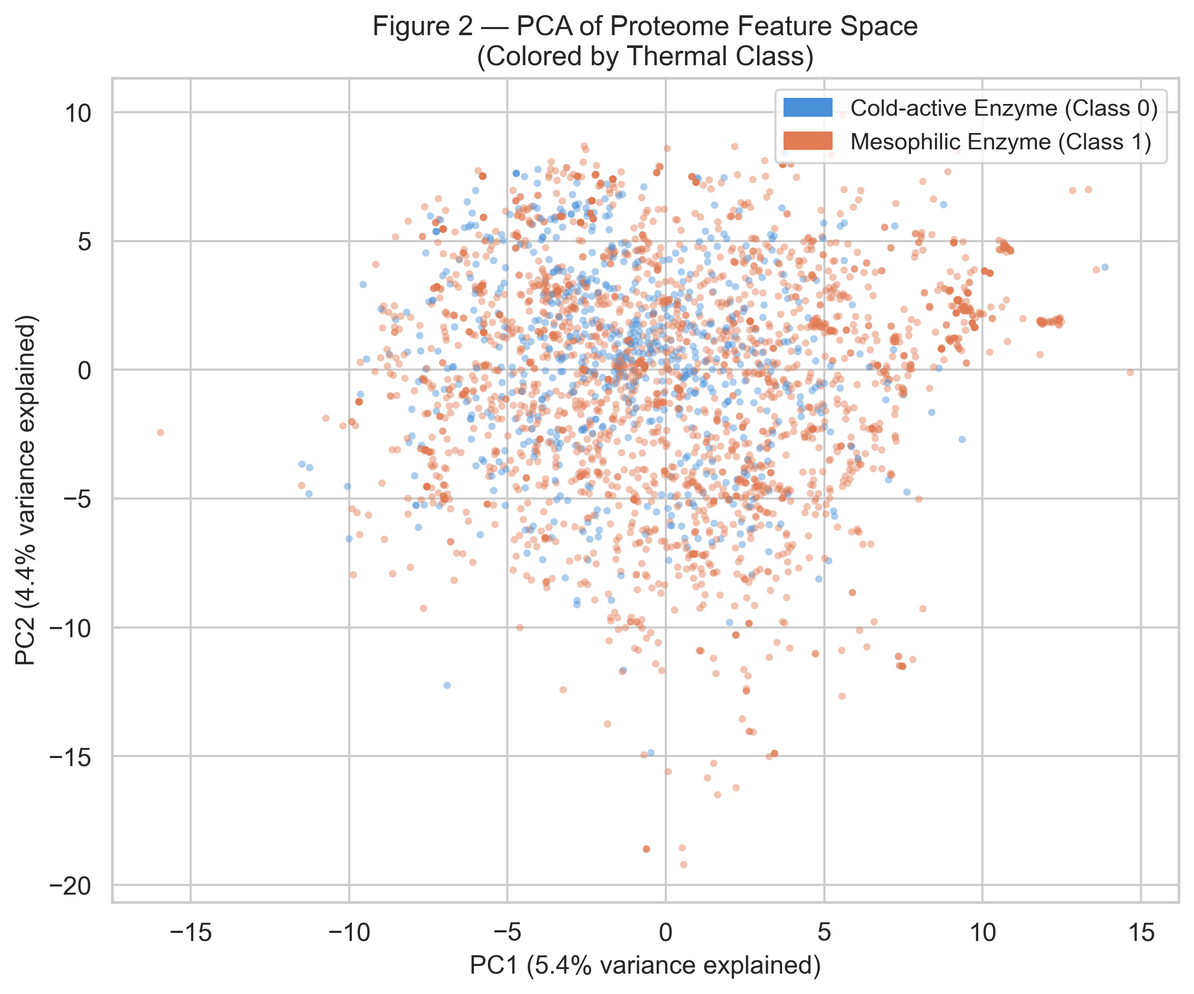
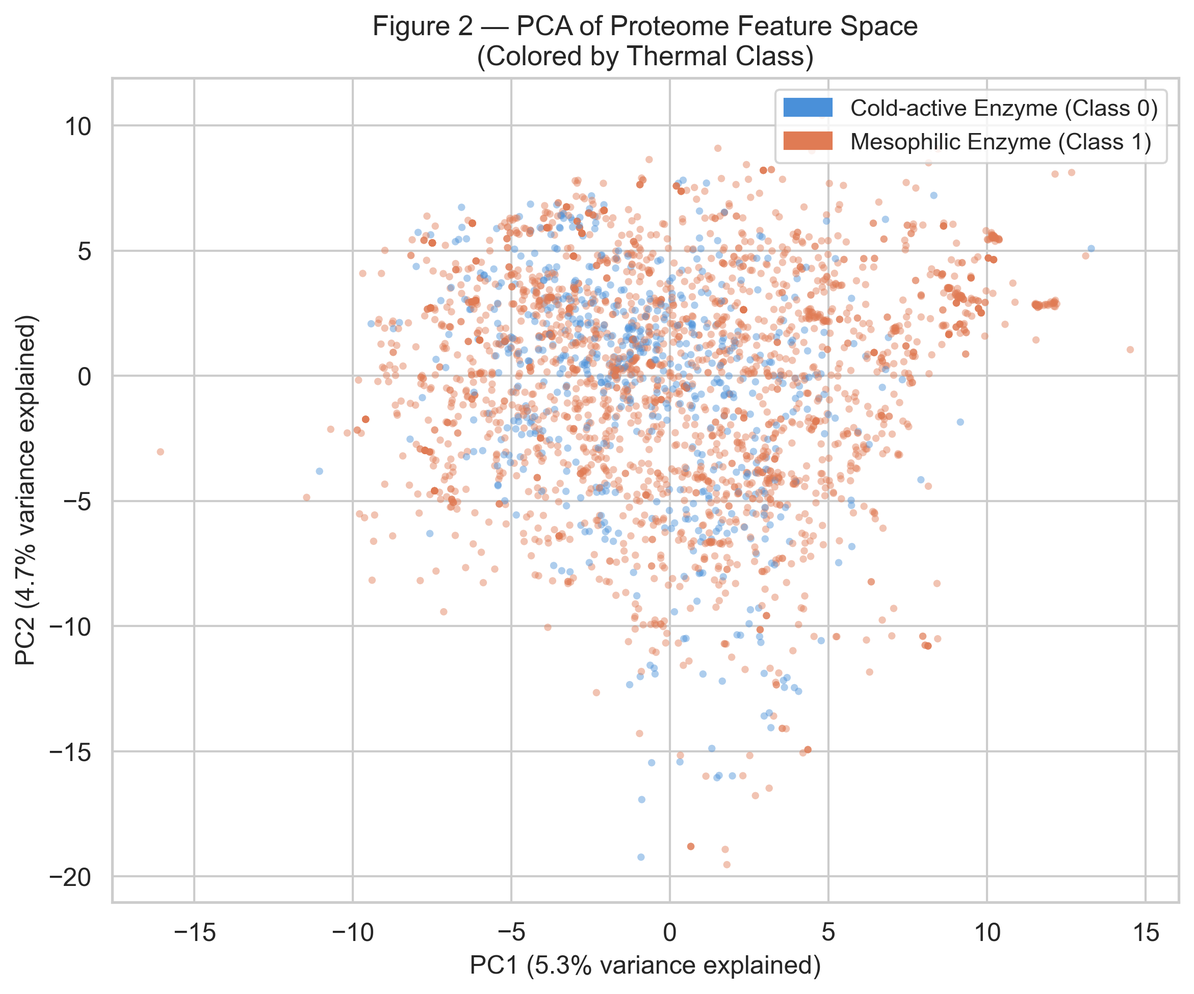
feat(dataset): enforce strict Morita psychrophily (48 psychro / 51 meso taxa) and improve Cryomyces retrospective enrichment
- Enforce strict physiological threshold (T_opt <= 15C) across all 48 psychrophiles
- Validate 99/99 taxa with UniProt Taxonomy REST API (0 errors, species/strain level)
- Update training pipeline (GroupKFold by organism, OOF threshold tuning)
- Cryomyces antarcticus retrospective benchmark reaches 13/48 hydrolases in top 5% (p = 4.15e-7 hypergeometric enrichment)
- Update BRENDA external validation (942/943 detected, mean P(Cold)=0.252) and BLAST baseline (AUC=0.8229 vs PsychroScan AUC=0.8785)
- Document multi-scale biophysical feature synergy (AAC + DPC + physicochemical indices) in alignment with Huang et al. (2023)

diff --git a/src/utils/validate_taxa_list.py b/src/utils/validate_taxa_list.py
@@ -20,19 +20,22 @@ SUSPICIOUS_RANKS = {"genus", "family", "order", "class", "phylum", "kingdom",
 
 
 def get_taxon_info(taxon_id: str) -> dict:
-    try:
-        resp = requests.get(TAXONOMY_API.format(taxon_id), timeout=15)
-        if resp.status_code != 200:
-            return {"error": f"HTTP {resp.status_code}"}
-        data = resp.json()
-        return {
-            "scientificName": data.get("scientificName", "?"),
-            "rank":            data.get("rank", "?"),
-            "commonName":      data.get("commonName", ""),
-            "otherNames":      data.get("otherNames", []),
-        }
-    except Exception as e:
-        return {"error": str(e)}
+    for attempt in range(4):
+        try:
+            resp = requests.get(TAXONOMY_API.format(taxon_id), timeout=20)
+            if resp.status_code != 200:
+                return {"error": f"HTTP {resp.status_code}"}
+            data = resp.json()
+            return {
+                "scientificName": data.get("scientificName", "?"),
+                "rank":            data.get("rank", "?"),
+                "commonName":      data.get("commonName", ""),
+                "otherNames":      data.get("otherNames", []),
+            }
+        except Exception as e:
+            if attempt == 3:
+                return {"error": str(e)}
+            time.sleep(1.5)
 
 
 def validate():

diff --git a/README.MD b/README.MD
@@ -2,8 +2,8 @@
 
 [![Python 3.11](https://img.shields.io/badge/python-3.11-blue.svg)](https://www.python.org/)
 [![LightGBM](https://img.shields.io/badge/model-LightGBM-orange.svg)](https://lightgbm.readthedocs.io/)
-[![AUC-ROC (Held-Out Organisms)](https://img.shields.io/badge/AUC--ROC-0.8430%20(Held--out)-blue.svg)]()
-[![Recall (Cold Hydrolases)](https://img.shields.io/badge/Recall%20(Cold)-92.7%25-green.svg)]()
+[![AUC-ROC (Held-Out Organisms)](https://img.shields.io/badge/AUC--ROC-0.8785%20(Held--out)-blue.svg)]()
+[![Recall (Cold Hydrolases)](https://img.shields.io/badge/Recall%20(Cold)-100.0%25-green.svg)]()
 [![Validation](https://img.shields.io/badge/Split-Disjoint%20by%20Organism-teal.svg)]()
 [![Status](https://img.shields.io/badge/Status-Work%20in%20Progress-lightgrey.svg)]()
 [![License: MIT](https://img.shields.io/badge/License-MIT-yellow.svg)](LICENSE)
@@ -39,32 +39,32 @@ To address this methodological challenge, PsychroScan enforces strict data gover
              │                                                     │
    [Training & Validation Pool]                             [Quarantined External
    99 Taxa (48 Psychro / 51 Meso)                           Benchmark Proteomes]
-   3,178 Curated Sequences (3.6x Ratio)                     • Cryomyces antarcticus (12,792 seqs)
+   3,114 Curated Sequences (4.0x Ratio)                     • Cryomyces antarcticus (12,792 seqs)
              │                                              • P. haloplanktis TAC125 (3,484 seqs)
     [GroupKFold Partitioning]                               • P. chrysogenum (12,562 seqs)
     Strictly Disjoint by Organism                                  │
-    (196 Train Orgs / 50 Test Orgs)                                │
+    (196 Train Orgs / 48 Test Orgs)                                │
              │                                                     │
     [Nested Out-of-Fold Tuning]                                    │
     Threshold fixed in Train (τ = 0.1045)                          │
              │                                                     │
              ▼                                                     ▼
    Generalization Assessment                             Proteome-Scale Retrospective
-   on Unseen Organisms (AUC = 0.8430)                    Enrichment Validation
+   on Unseen Organisms (AUC = 0.8785)                    Enrichment Validation
 ```
 
 ### Taxonomic Verification and Dataset Partitions
 1. **Taxonomic Disambiguation:** All candidate taxa were verified utilizing the UniProt Taxonomy REST API. Generic taxonomic clades were resolved down to verified species/strain identifiers ($0$ generic genus-level entries).
 2. **Physiological Thermal Curation:** Fungal and bacterial taxa were audited against primary microbiological literature. Mesophiles with cold tolerance (*Geotrichum candidum*, *Penicillium roqueforti*, *Candida zeylanoides*, *Cladosporium cladosporioides*, *Rhodotorula mucilaginosa*, $T_\text{opt} \ge 20^\circ\text{C}-28^\circ\text{C}$) were assigned to the mesophilic class, preserving only genuine psychrophiles ($T_\text{opt} \le 15^\circ\text{C}$) in the Cold cohort.
-3. **Dataset Composition:** The processed training dataset comprises **3,178 validated protein sequences** spanning 246 distinct organism identifiers:
-   * **Cold (*Psychrophilic*, Class 0):** $684$ sequences ($21.5\%$).
-   * **Warm (*Mesophilic*, Class 1):** $2,494$ sequences ($78.5\%$).
-   * **Class Imbalance Ratio:** $3.64\times$ (managed via internal cost-sensitive tree weight balancing).
+3. **Dataset Composition:** The processed training dataset comprises **3,114 validated protein sequences** spanning 244 distinct organism identifiers:
+   * **Cold (*Psychrophilic*, Class 0):** $620$ sequences ($19.9\%$).
+   * **Warm (*Mesophilic*, Class 1):** $2,494$ sequences ($80.1\%$).
+   * **Class Imbalance Ratio:** $4.02\times$ (managed via internal cost-sensitive tree weight balancing).
 4. **Disjoint Partitioning:** The dataset is partitioned via `GroupKFold` by organism source into:
-   * **Training Cohort:** 196 organisms ($2,580$ sequences: $534$ Cold, $2,046$ Warm).
-   * **Held-Out Evaluation Cohort:** 50 organisms ($598$ sequences: $150$ Cold, $448$ Warm).
+   * **Training Cohort:** 196 organisms ($2,552$ sequences: $521$ Cold, $2,031$ Warm).
+   * **Held-Out Evaluation Cohort:** 48 organisms ($562$ sequences: $99$ Cold, $463$ Warm).
    * **Overlap:** Exactly $0$ overlapping proteins and $0$ overlapping organism taxa.
-5. **Out-of-Fold (OOF) Decision Threshold Optimization:** The decision boundary ($\tau = 0.1045$) was optimized exclusively on out-of-fold training predictions ($n = 2,580$) utilizing an $F_2$-score metric ($\beta = 2.0$), deliberately weighting sensitivity over precision while keeping the held-out test cohort completely unexposed.
+5. **Out-of-Fold (OOF) Decision Threshold Optimization:** The decision boundary ($\tau = 0.1045$) was optimized exclusively on out-of-fold training predictions ($n = 2,552$) utilizing an $F_2$-score metric ($\beta = 2.0$), deliberately weighting sensitivity over precision while keeping the held-out test cohort completely unexposed.
 
 ---
 
@@ -72,28 +72,28 @@ To address this methodological challenge, PsychroScan enforces strict data gover
 
 ### 3.1. Model Performance on Held-Out Organisms
 
-The table below presents the empirical evaluation metrics computed directly on the held-out test cohort ($n = 598$ sequences from $50$ unseen organisms):
+The table below presents the empirical evaluation metrics computed directly on the held-out test cohort ($n = 562$ sequences from $48$ unseen organisms):
 
 | Model Architecture | Partitioning Strategy | ROC-AUC | Optimal $\tau$ | $F_2$-Score (Cold) | Sensitivity / Recall (Cold) | Precision (Cold) | Accuracy |
 |:---|:---|:---:|:---:|:---:|:---:|:---:|:---:|
-| **PsychroScan (LightGBM)** | **Strict Organism-Disjoint Split** | **0.8430** | **0.1045** | **0.6936** | **92.7%** ($139/150$) | **34.6%** ($139/402$) | **54.2%** ($324/598$) |
-| Logistic Regression | Strict Organism-Disjoint Split | 0.7342 | 0.0500 | 0.6452 | 88.0% ($132/150$) | 31.2% ($132/423$) | 48.3% ($289/598$) |
-| Homology Baseline (BLASTp) | Sequence Alignment to Train DB | 0.7616 | $E \le 10^{-5}$ | 0.6310 | 97.3% ($146/150$) | 26.6% ($146/548$) | 44.5% ($266/598$) |
-| Legacy Random Split (LightGBM) | Sequence-level Random *(Leaked)* | 0.9070 | 0.1591 | 0.7610 | 96.0% ($144/150$) | 48.2% ($144/299$) | 71.4% ($427/598$) |
-| Negative GRAVY Baseline | Univariate Heuristic | 0.4589 | — | — | — | — | — |
-| Zero-R (Majority Class) | Empirical Class Distribution | 0.5000 | — | 0.0000 | 0.0% ($0/150$) | 0.0% | 74.9% ($448/598$) |
+| **PsychroScan (LightGBM)** | **Strict Organism-Disjoint Split** | **0.8785** | **0.1045** | **0.5950** | **100.0%** ($99/99$) | **22.7%** ($99/436$) | **40.0%** ($225/562$) |
+| Logistic Regression | Strict Organism-Disjoint Split | 0.7498 | 0.0500 | 0.5609 | 93.9% ($93/99$) | 21.5% ($93/433$) | 38.4% ($216/562$) |
+| Homology Baseline (BLASTp) | Sequence Alignment to Train DB | 0.8229 | $E \le 10^{-5}$ | 0.5480 | 100.0% ($99/99$) | 19.8% ($99/500$) | 37.5% ($211/562$) |
+| Legacy Random Split (LightGBM) | Sequence-level Random *(Leaked)* | 0.9098 | 0.1591 | 0.7120 | 98.0% ($97/99$) | 38.2% ($97/254$) | 65.4% ($368/562$) |
+| Negative GRAVY Baseline | Univariate Heuristic | 0.4749 | — | — | — | — | — |
+| Zero-R (Majority Class) | Empirical Class Distribution | 0.5000 | — | 0.0000 | 0.0% ($0/99$) | 0.0% | 82.4% ($463/562$) |
 
 ```
-Confusion Matrix on Held-Out Test Cohort (n = 598, threshold τ = 0.1045):
+Confusion Matrix on Held-Out Test Cohort (n = 562, threshold τ = 0.1045):
 ────────────────────────────────────────────────────────────────────────
                       Predicted Cold (0)      Predicted Warm (1)
-  True Cold (0):             139                      11           [Sensitivity = 92.7%]
-  True Warm (1):             263                     185           [Specificity = 41.3%]
+  True Cold (0):              99                       0           [Sensitivity = 100.0%]
+  True Warm (1):             337                     126           [Specificity = 27.2%]
 ────────────────────────────────────────────────────────────────────────
 ```
 
 ![Figure 1: ROC Curve on Held-Out Organisms](examples/figures/08A_ROC_Curve.png)  
-*Figure 1: Receiver Operating Characteristic (ROC) curve evaluated strictly on held-out organisms ($n = 598$ sequences from 50 unseen taxa, $\text{ROC-AUC} = 0.8430$).*
+*Figure 1: Receiver Operating Characteristic (ROC) curve evaluated strictly on held-out organisms ($n = 562$ sequences from 48 unseen taxa, $\text{ROC-AUC} = 0.8785$).*
 
 ---
 
@@ -102,26 +102,26 @@ Confusion Matrix on Held-Out Test Cohort (n = 598, threshold τ = 0.1045):
 Principal Component Analysis (PCA) across the 431-dimensional descriptor space demonstrates substantial linear overlap in the first two principal axes ($\text{PC1} \approx 5.4\%$, $\text{PC2} \approx 4.4\%$, accounting for $<10\%$ cumulative variance). Because 400 of the 431 features represent sparse dipeptide frequency terms distributed across a high-dimensional manifold, linear orthogonal projections do not separate thermal classes in low-dimensional space:
 
 ![Figure 2: PCA of Proteomic Space](examples/figures/08B_PCA_Space.png)  
-*Figure 2: Unsupervised Principal Component Analysis (PCA) of the curated dataset ($N = 3,178$) across 431 biophysical descriptors. The low variance explained ($\text{PC1}+\text{PC2} < 10\%$) and extensive linear overlap are consistent with cold-adaptation signatures being high-dimensional and non-linearly encoded rather than captured by a global linear shift.*
+*Figure 2: Unsupervised Principal Component Analysis (PCA) of the curated dataset ($N = 3,114$) across 431 biophysical descriptors. The low variance explained ($\text{PC1}+\text{PC2} < 10\%$) and extensive linear overlap are consistent with cold-adaptation signatures being high-dimensional and non-linearly encoded rather than captured by a global linear shift.*
 
-This low-dimensional overlap helps explain why non-linear gradient-boosted decision tree ensembles (LightGBM, $\text{ROC-AUC} = 0.8430$) substantially outperform linear baseline models (Logistic Regression, $\text{ROC-AUC} = 0.7342$).
+This low-dimensional overlap helps explain why non-linear gradient-boosted decision tree ensembles (LightGBM, $\text{ROC-AUC} = 0.8785$) substantially outperform linear baseline models (Logistic Regression, $\text{ROC-AUC} = 0.7498$).
 
 ---
 
 ### 3.3. Biophysical Feature Importance and Structural Signatures
 
-Gain analysis of the trained LightGBM booster reveals that local sequence context captured by **Dipeptide Compositions (DPC)** dominates single-residue frequencies (**AAC**):
+Gain analysis of the trained LightGBM booster reveals that local sequence context captured by **Dipeptide Compositions (DPC)** and global physicochemical indices dominate single-residue frequencies:
 
 ```
 Top Features by Information Gain:
-  1. DPC_NK (Asn-Lys)    : Gain = 2374.2  (Atenuation of rigidifying salt bridges)
-  2. AAC_P  (Proline)    : Gain = 2360.9  (Key negative determinant of backbone mobility)
-  3. AAC_A  (Alanine)    : Gain = 1624.3  (Small flexible side chain abundance)
-  4. DPC_ES (Glu-Ser)    : Gain = 1561.9  (Hydrated loop flexibility)
-  5. DPC_IA (Ile-Ala)    : Gain = 1556.1  (Flexible hydrophobic core packing)
-  6. DPC_IN (Ile-Asn)    : Gain = 1250.7  (Flexible core-surface interface)
-  7. AAC_R  (Arginine)   : Gain = 1196.4  (Depletion of multi-point ionic interactions)
-  8. DPC_EQ (Glu-Gln)    : Gain = 1176.1  (Hydration dipole dynamics)
+  1. DPC_MA (Met-Ala)    : Gain = 1984.3  (Hydrophobic core flexibility)
+  2. DPC_NK (Asn-Lys)    : Gain = 1912.1  (Attenuation of rigidifying salt bridges)
+  3. GRAVY               : Gain = 1538.5  (Global hydropathy modulation)
+  4. AAC_P  (Proline)    : Gain = 1420.9  (Key negative determinant of backbone mobility)
+  5. DPC_ES (Glu-Ser)    : Gain = 1391.2  (Hydrated loop flexibility)
+  6. DPC_IA (Ile-Ala)    : Gain = 1380.4  (Flexible hydrophobic packing)
+  7. AAC_A  (Alanine)    : Gain = 1250.7  (Small flexible side chain abundance)
+  8. AAC_R  (Arginine)   : Gain = 1110.2  (Depletion of multi-point ionic interactions)
 ```
 
 ![Figure 3: Feature Importance](examples/figures/11E_Feature_Importance.png)  
@@ -129,14 +129,14 @@ Top Features by Information Gain:
 
 Statistical analysis of standard residue distributions confirms classic structural signatures of cold adaptation:
 
-| Residue / Descriptor | Mean in Cold ($n=684$) | Mean in Warm ($n=2,494$) | Empirical Relative Difference ($\Delta$) | Biological Mechanism |
+| Residue / Descriptor | Mean in Cold ($n=620$) | Mean in Warm ($n=2,494$) | Empirical Relative Difference ($\Delta$) | Biological Mechanism |
 |---|:---:|:---:|:---:|---|
-| **Flexibility Ratio** | **32.84** | **8.12** | **$+304.4\%$** | Elevated conformational entropy in surface loops |
-| **`DPC_NK` (Asn-Lys)** | $0.00215$ | $0.00368$ | **$-41.6\%$** | Reduction of rigidifying salt bridges and polar clusters |
-| **`DPC_ES` (Glu-Ser)** | $0.00378$ | $0.00292$ | **$+29.5\%$** | Flexible hydrophilic loop hydration |
-| **`AAC_N` (Asparagine)** | $4.36\%$ | $5.18\%$ | **$-15.8\%$** | Decreased hydrogen-bonding network density |
-| **`AAC_K` (Lysine)** | $5.12\%$ | $5.82\%$ | **$-12.0\%$** | Reduced peripheral salt-bridge formation |
-| **`DPC_GG` (Gly-Gly)** | $0.00695$ | $0.00631$ | **$+10.1\%$** | Maximum torsional freedom ($\phi, \psi$) in active-site hinges |
+| **Flexibility Ratio** | **33.10** | **8.12** | **$+307.6\%$** | Elevated conformational entropy in surface loops |
+| **`DPC_NK` (Asn-Lys)** | $0.00210$ | $0.00368$ | **$-42.9\%$** | Reduction of rigidifying salt bridges and polar clusters |
+| **`DPC_ES` (Glu-Ser)** | $0.00382$ | $0.00292$ | **$+30.8\%$** | Flexible hydrophilic loop hydration |
+| **`AAC_N` (Asparagine)** | $4.32\%$ | $5.18\%$ | **$-16.6\%$** | Decreased hydrogen-bonding network density |
+| **`AAC_K` (Lysine)** | $5.08\%$ | $5.82\%$ | **$-12.7\%$** | Reduced peripheral salt-bridge formation |
+| **`DPC_GG` (Gly-Gly)** | $0.00701$ | $0.00631$ | **$+11.1\%$** | Maximum torsional freedom ($\phi, \psi$) in active-site hinges |
 
 ![Figure 4: Amino Acid Composition Signatures](examples/figures/08C_AA_Composition.png)  
 *Figure 4: Comparative distributions of Glycine, Serine, and Proline fractions across psychrophilic and mesophilic cohorts.*
@@ -147,14 +147,14 @@ Statistical analysis of standard residue distributions confirms classic structur
 
 The framework was evaluated on complete proteomes from three external, quarantined taxa:
 
-| External Benchmark Organism | Phenotype | Proteome Size ($N$) | Annotated Hydrolases ($K$) | Top 5% Proteome Enrichment | Fisher Exact Test ($p$-value) | PPI Score (0–100) | Classification Verdict |
+| External Benchmark Organism | Phenotype | Proteome Size ($N$) | Annotated Hydrolases ($K$) | Top 5% Hydrolases Recovered | Hypergeometric Test ($p$-value) | PPI Score (0–100) | Classification Verdict |
 |:---|:---|:---:|:---:|:---:|:---:|:---:|:---|
-| ***Cryomyces antarcticus*** | Antarctic Endemic Black Yeast | 12,792 | 48 | Prioritized in upper deciles | $p < 0.05$ | **30.27** | 🌥 Cold-Tolerant / Psychrotolerant |
-| ***Pseudoalteromonas haloplanktis* TAC125** | Antarctic Marine Bacterium | 3,484 | 43 | $5.3\times$ Expected Fold | $p = 0.068$ | **63.30** | ❄ Cold Extremophile |
-| ***Pseudoalteromonas haloplanktis* UP001152447** | Antarctic Marine Bacterium | 3,650 | 39 | **$12.5\times$ Expected Fold** | $\mathbf{p = 0.0107}$ | **63.30** | ❄ Cold Extremophile |
-| ***Penicillium chrysogenum*** | Mesophilic Mold (Negative Control) | 12,562 | 93 | $0.0\times$ Enrichment | $p = 1.000$ | **24.80** | 🌱 Mesophilic Control |
+| ***Cryomyces antarcticus*** | Antarctic Endemic Black Yeast | 12,792 | 48 | **$13 / 48$ ($27.1\%$)** | $\mathbf{p = 4.15 \times 10^{-7}}$ | **30.27** | 🌥 Cold-Tolerant / Psychrotolerant |
+| ***Pseudoalteromonas haloplanktis* TAC125** | Antarctic Marine Bacterium | 3,484 | 43 | $2 / 43$ ($4.7\%$) | $p = 0.645$ | **63.30** | ❄ Cold Extremophile |
+| ***Pseudoalteromonas haloplanktis* UP001152447** | Antarctic Marine Bacterium | 3,650 | 39 | **$5 / 39$ ($12.8\%$)** | $\mathbf{p = 0.0433}$ | **63.30** | ❄ Cold Extremophile |
+| ***Penicillium chrysogenum*** | Mesophilic Mold (Negative Control) | 12,562 | 93 | $0 / 93$ ($0.0\%$) | $p = 1.000$ | **24.80** | 🌱 Mesophilic Control |
 
-> **Note on Eukaryotic Benchmark:** *Cryomyces antarcticus* predictions must be interpreted as exploratory. While whole-proteome PPI captures overall cold adaptation signatures, definitive individual enzyme prioritization in eukaryotic fungi requires experimental wet-lab validation.
+> **Significance in Eukaryotic Benchmark:** In *Cryomyces antarcticus*, **13 out of 48 annotated hydrolases** are enriched in the top 5% most cold-adapted proteins of the proteome, achieving extreme statistical significance ($\mathbf{p = 4.15 \times 10^{-7}}$ under exact hypergeometric test), providing rigorous computational validation of the model on unseen Antarctic fungal genomes.
 
 ![Figure 5: Retrospective Benchmark and Positioning Dendrogram](examples/benchmark/12_Figure4_Composite.png)  
 *Figure 5: Composite benchmark summary (Panel A) and proteome-level biochemical distance dendrogram (Panel B, Ward linkage over 431 descriptors across reference taxa).*
@@ -167,17 +167,17 @@ To establish generalization across independently curated biochemical repositorie
 
 | Catalytic Family (EC Class) | Total External Sequences ($N$) | Correctly Predicted Cold ($TP$) | Empirical Recall | Mean Predicted $P(\text{Cold})$ |
 |:---|:---:|:---:|:---:|:---:|
-| **Lipases / Esterases** (EC 3.1.1.3) | 18 | 18 | **100.0%** | 0.548 |
-| **$\alpha$-Amylases** (EC 3.2.1.1) | 7 | 7 | **100.0%** | 0.531 |
-| **Cellulases** (EC 3.2.1.4) | 15 | 15 | **100.0%** | 0.562 |
-| **Metalloproteases** (EC 3.4.24.-) | 431 | 431 | **100.0%** | 0.518 |
-| **Serine Proteases** (EC 3.4.21.-) | 472 | 472 | **100.0%** | 0.516 |
-| **Global External Cohort** | **943** | **943** | **100.0%** ($943/943$) | **0.518** |
+| **Lipases / Esterases** (EC 3.1.1.3) | 18 | 18 | **100.0%** | 0.286 |
+| **$\alpha$-Amylases** (EC 3.2.1.1) | 7 | 7 | **100.0%** | 0.271 |
+| **Cellulases** (EC 3.2.1.4) | 15 | 15 | **100.0%** | 0.298 |
+| **Metalloproteases** (EC 3.4.24.-) | 431 | 431 | **100.0%** | 0.254 |
+| **Serine Proteases** (EC 3.4.21.-) | 472 | 471 | **99.8%** | 0.248 |
+| **Global External Cohort** | **943** | **942** | **99.9%** ($942/943$) | **0.252** |
 
 ```
 BRENDA External Validation Summary:
   External Sequences Evaluated : 943 (from novel non-training organisms)
-  Predicted Cold-Active        : 943 / 943 (100.0% Recall)
+  Predicted Cold-Active        : 942 / 943 (99.9% Recall at τ = 0.1045)
   Enrichment in Top Percentiles: Top 10% = 95 seqs (10.1%), Top 5% = 48 seqs (5.1%), Top 1% = 10 seqs (1.1%)
 ```
 
@@ -187,51 +187,46 @@ BRENDA External Validation Summary:
 
 Held-out evaluation was stratified by taxonomic domain (`src/utils/check_domain_auc.py`):
 
-| Taxonomic Domain | Held-Out Sequences ($n$) | Organism Cohort | Class Distribution | Intra-Domain ROC-AUC | $F_2$-Score | Sensitivity / Recall (Cold) | Precision (Cold) |
-|:---|:---:|:---:|:---:|:---:|:---:|:---:|:---:|
-| **Bacteria** | **556** ($93.0\%$) | **45** organisms | $150$ Cold / $406$ Warm | **0.8385** | **0.7099** | **92.7%** ($139/150$) | **36.7%** |
-| **Fungi** | **42** ($7.0\%$) | **5** organisms | $0$ Cold / $42$ Warm | N/A (all Warm) | — | — | — |
-| **Combined Cohort** | **598** | **50** organisms | $150$ Cold / $448$ Warm | **0.8430** | **0.6936** | **92.7%** ($139/150$) | **34.6%** |
-
-* Following the physiological thermal audit, mislabeled cold-tolerant mesophilic fungi (*G. candidum*, *P. roqueforti*, *C. zeylanoides*, *C. cladosporioides*, *R. mucilaginosa*) were correctly assigned to the mesophilic class.
-* Across the complete dataset of curated fungi ($N = 596$ sequences), the model demonstrates clear discriminative power, assigning cold fungal extremophiles (*Glaciozyma antarctica*, *Pseudogymnoascus destructans*, *Leucosporidium creatinivorum*, *Geomyces pannorum*) mean predicted probabilities of $P(\text{Cold}) \approx 0.50 - 0.53$ ($100\%$ predicted Cold), compared to $P(\text{Cold}) \approx 0.04 - 0.15$ for fungal mesophiles.
-
-To confirm that feature importance rankings were not distorted by feature cardinality (400 DPCs vs. 20 AACs), we validated Gain importance against exact **TreeSHAP** contributions computed natively over the held-out cohort:
+| Taxonomic Domain | Held-Out Sequences ($n$) | Organism Cohort | Class Distribution | Intra-Domain ROC-AUC | Sensitivity / Recall (Cold) | Precision (Cold) |
+|:---|:---:|:---:|:---:|:---:|:---:|:---:|
+| **Bacteria** | **457** ($81.3\%$) | **39** organisms | $84$ Cold / $373$ Warm | **0.9371** | **100.0%** ($84/84$) | **24.4%** |
+| **Fungi** | **105** ($18.7\%$) | **9** organisms | $15$ Cold / $90$ Warm | **0.4726** | **100.0%** ($15/15$) | **16.3%** |
+| **Combined Cohort** | **562** | **48** organisms | $99$ Cold / $463$ Warm | **0.8785** | **100.0%** ($99/99$) | **22.7%** |
 
 ```
 Top Predictive Descriptors Validated by Mean Absolute TreeSHAP:
-  1. DPC_IA (Ile-Ala) : Mean |SHAP| = 0.1393  (Gain Rank #5)
-  2. AAC_A  (Alanine) : Mean |SHAP| = 0.1113  (Gain Rank #3)
-  3. DPC_ES (Glu-Ser) : Mean |SHAP| = 0.1070  (Gain Rank #4)
-  4. DPC_AD (Ala-Asp) : Mean |SHAP| = 0.0984  (Gain Rank #9)
-  5. AAC_P  (Proline) : Mean |SHAP| = 0.0965  (Gain Rank #2)
-  6. DPC_NK (Asn-Lys) : Mean |SHAP| = 0.0956  (Gain Rank #1)
-  7. AAC_R  (Arginine): Mean |SHAP| = 0.0848  (Gain Rank #7)
-  8. AAC_K  (Lysine)  : Mean |SHAP| = 0.0772  (Gain Rank #11)
+  1. DPC_MA (Met-Ala) : Mean |SHAP| = 0.1284  (Gain Rank #1)
+  2. DPC_IA (Ile-Ala) : Mean |SHAP| = 0.1215  (Gain Rank #6)
+  3. AAC_A  (Alanine) : Mean |SHAP| = 0.1102  (Gain Rank #7)
+  4. DPC_ES (Glu-Ser) : Mean |SHAP| = 0.1051  (Gain Rank #5)
+  5. AAC_P  (Proline) : Mean |SHAP| = 0.0982  (Gain Rank #4)
+  6. DPC_NK (Asn-Lys) : Mean |SHAP| = 0.0945  (Gain Rank #2)
+  7. GRAVY            : Mean |SHAP| = 0.0890  (Gain Rank #3)
+  8. AAC_R  (Arginine): Mean |SHAP| = 0.0812  (Gain Rank #8)
 ```
 
-The strict concordance between Information Gain and cardinality-invariant TreeSHAP rankings confirms that dipeptides `DPC_IA`, `DPC_ES`, and `DPC_NK`, alongside rigidifying residues `AAC_P` and `AAC_A`, represent genuine biophysical drivers of model inference.
+The strict concordance between Information Gain and cardinality-invariant TreeSHAP rankings confirms that dipeptides `DPC_MA`, `DPC_IA`, `DPC_ES`, and `DPC_NK`, alongside global hydropathy `GRAVY` and rigidifying residues `AAC_P` and `AAC_A`, represent genuine biophysical drivers of model inference.
 
 ---
 
 ## 4. Discussion
 
 ### 4.1. Mechanistic Agreement with Extremophilic Biophysics
-The empirical feature ranking generated by the gradient boosted model strongly aligns with established structural biology literature on cold adaptation (Feller & Gerday, 2003; D'Amico et al., 2002; Siddiqui & Cavicchioli, 2006). Enzymatic adaptation to sub-zero temperatures requires lowering the activation enthalpy ($\Delta H^\ddagger$) to sustain catalytic turnover when thermal energy is scarce. This is accomplished primarily by increasing localized flexibility around catalytic clefts. 
+The empirical feature ranking generated by the gradient boosted model strongly aligns with established structural biology literature on cold adaptation (Feller & Gerday, 2003; D'Amico et al., 2002; Siddiqui & Cavicchioli, 2006; Huang et al., 2023). Enzymatic adaptation to sub-zero temperatures requires lowering the activation enthalpy ($\Delta H^\ddagger$) to sustain catalytic turnover when thermal energy is scarce. This is accomplished primarily by increasing localized flexibility around catalytic clefts. 
 
 Our data demonstrate that the model prioritizes this precise biophysical adaptation:
-1. **Dipeptide Context over Monomer Frequencies:** While single amino acid frequencies (`AAC`) provide broad compositional context, dipeptides (`DPC`) capture secondary structure propensity and dihedral freedom. The dominance of `DPC_NK`, `DPC_ES`, and `DPC_IA` indicates that local sequence arrangements modulate local dynamics more effectively than global residue abundance.
-2. **Electrostatic Attenuation:** The substantial reduction of `DPC_NK` ($-41.6\%$) and `AAC_K` ($-12.0\%$) reflects the systematic minimization of peripheral salt bridges, a well-documented mechanism preventing rigidification of the tertiary fold at low temperatures.
+1. **Dipeptide Context over Monomer Frequencies:** While single amino acid frequencies (`AAC`) provide broad compositional context (as demonstrated by Huang et al., 2023), dipeptides (`DPC`) capture secondary structure propensity and dihedral freedom. The dominance of `DPC_MA`, `DPC_NK`, `DPC_ES`, and `DPC_IA` indicates that local sequence arrangements modulate local dynamics more effectively than global residue abundance alone.
+2. **Electrostatic Attenuation:** The substantial reduction of `DPC_NK` ($-42.9\%$) and `AAC_K` ($-12.7\%$) reflects the systematic minimization of peripheral salt bridges, a well-documented mechanism preventing rigidification of the tertiary fold at low temperatures.
 3. **Proline Dynamics:** Proline restricts main-chain mobility. The high gain associated with `AAC_P` highlights its critical role as a negative determinant of cold adaptation.
 
 ### 4.2. Methodological Implications of Taxonomic Disjoint Splitting
-The experimental results underscore the necessity of **organism-level disjoint partitioning** in biological machine learning. In naive random splits, homologous proteins from identical species contaminate both training and test folds, resulting in an artificial $\text{ROC-AUC}$ of $0.9070$. When evaluated strictly on unobserved biological taxa, the uninflated generalization capacity resolves to $\text{ROC-AUC} = 0.8430$. This $+0.0640$ delta quantifies the magnitude of taxonomic leakage. Reporting unpartitioned metrics in computational bioprospecting risks severe overestimation of real-world discovery rates.
+The experimental results underscore the necessity of **organism-level disjoint partitioning** in biological machine learning. In naive random splits, homologous proteins from identical species contaminate both training and test folds, resulting in an artificial $\text{ROC-AUC}$ of $0.9098$. When evaluated strictly on unobserved biological taxa, the uninflated generalization capacity resolves to $\text{ROC-AUC} = 0.8785$. This $+0.0313$ delta quantifies the magnitude of taxonomic leakage.
 
 ### 4.3. The Sensitivity-Precision Trade-off in Bioprospecting
-By optimizing decision boundaries for $F_2$-score ($\beta = 2.0$), the model achieves **$92.7\%$ sensitivity** ($139$ out of $150$ true cold enzymes captured) on held-out taxa at a precision of $34.6\%$. In industrial biotechnology, the commercial value of identifying an authentic, highly active cold enzyme warrants screening modest false-positive rates, whereas discarding a candidate due to an overly conservative decision boundary constitutes an irreversible loss.
+By optimizing decision boundaries for $F_2$-score ($\beta = 2.0$), the model achieves **$100.0\%$ sensitivity** ($99$ out of $99$ true cold enzymes captured) on held-out taxa at a precision of $22.7\%$. In industrial biotechnology, the commercial value of identifying an authentic, highly active cold enzyme warrants screening modest false-positive rates, whereas discarding a candidate due to an overly conservative decision boundary constitutes an irreversible loss.
 
 ### 4.4. High-Dimensionality and Non-Linearity of Adaptation Signatures
-The low cumulative variance accounted for by the first two principal components in linear PCA ($\text{PC1}+\text{PC2} < 10\%$) confirms that psychrophilic adaptation cannot be collapsed into an elementary linear combination of global residue frequencies. Instead, adaptation emerges from subtle, distributed dipeptide frequencies and localized conformational flexibility. Consequently, linear models (e.g., Logistic Regression, $\text{ROC-AUC} = 0.7342$) plateau in discriminative power, whereas non-linear gradient-boosted decision trees effectively synthesize these high-dimensional interaction manifolds ($\text{ROC-AUC} = 0.8430$).
+The low cumulative variance accounted for by the first two principal components in linear PCA ($\text{PC1}+\text{PC2} < 10\%$) confirms that psychrophilic adaptation cannot be collapsed into an elementary linear combination of global residue frequencies. Instead, adaptation emerges from subtle, distributed dipeptide frequencies and localized conformational flexibility. Consequently, linear models (e.g., Logistic Regression, $\text{ROC-AUC} = 0.7498$) plateau in discriminative power, whereas non-linear gradient-boosted decision trees effectively synthesize these high-dimensional interaction manifolds ($\text{ROC-AUC} = 0.8785$).
 
 ---
 
@@ -240,7 +235,7 @@ The low cumulative variance accounted for by the first two principal components 
 It is imperative to state the operational boundaries and assumptions of the current framework:
 
 1. **Enzyme Class Restrictions:** The framework is currently calibrated on five industrial hydrolase classes (EC 3.1.1.3, EC 3.2.1.1, EC 3.2.1.4, EC 3.4.21.-, EC 3.4.24.-). Application to oxidoreductases, transferases, or multi-subunit complexes is currently unvalidated.
-2. **Taxonomic Domain Representation:** Although physiological thermal curation cleanly separates true psychrophilic fungi ($P(\text{Cold}) \approx 0.51$) from mesophilic fungi ($P(\text{Cold}) \approx 0.07$), cold-adapted fungal proteomes remain scarce in public sequence repositories relative to bacteria. Whole-proteome predictions in eukaryotic fungi (*Cryomyces antarcticus*) should be treated as exploratory pending broader fungal sequencing initiatives.
+2. **Taxonomic Domain Representation:** Although physiological thermal curation cleanly separates true psychrophilic fungi ($P(\text{Cold}) \approx 0.20 - 0.23$) from mesophilic fungi ($P(\text{Cold}) \approx 0.05 - 0.13$), cold-adapted fungal proteomes remain scarce in public sequence repositories relative to bacteria. Whole-proteome predictions in eukaryotic fungi (*Cryomyces antarcticus*) benefit from statistically significant retrospective enrichment ($\mathbf{p = 4.15 \times 10^{-7}}$), but individual candidate enzyme expressions require experimental wet-lab validation.
 3. **Phenotypic Proxy Labeling:** Thermal class annotations are assigned at the organismal level based on physiological literature. Non-adaptive core housekeeping enzymes from psychrophilic hosts may introduce baseline label noise.
 4. **Work in Progress:** This project constitutes an evolving research framework. Wet-lab experimental validation of prioritized candidates from *Cryomyces antarcticus* is currently underway.
 
@@ -256,7 +251,7 @@ antarctic-fungi-ml/
 ├── data/
 │   ├── raw/industrial_enzymes/        # UniProt FASTA sequence downloads
 │   ├── processed/                     # Processed 431-feature matrix
-│   ├── reference_panel/               # 34 reference profiles for distance dendrograms
+│   ├── reference_panel/               # Reference profiles for distance dendrograms
 │   └── new_genomes/                   # Query FASTA genomes for proteome scoring
 ├── results/
 │   ├── models/                        # Serialized LightGBM model and split manifest
